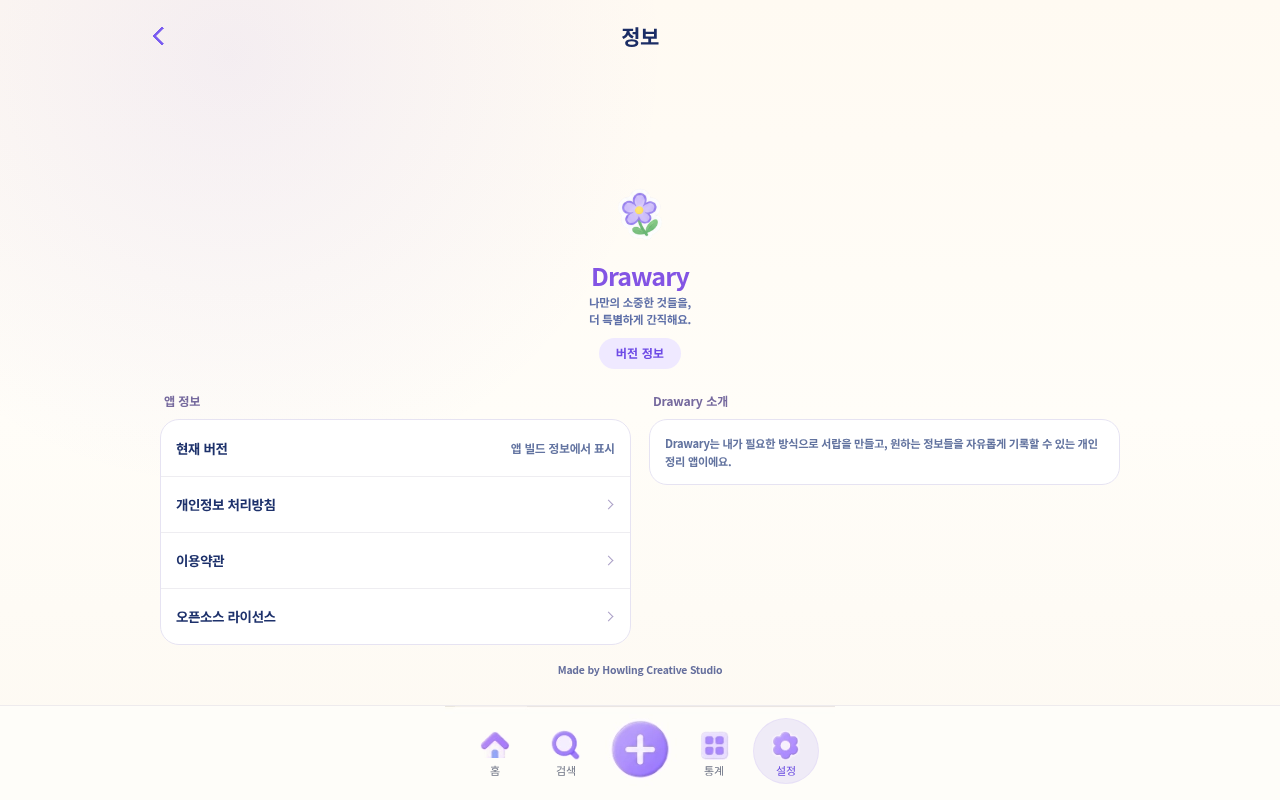
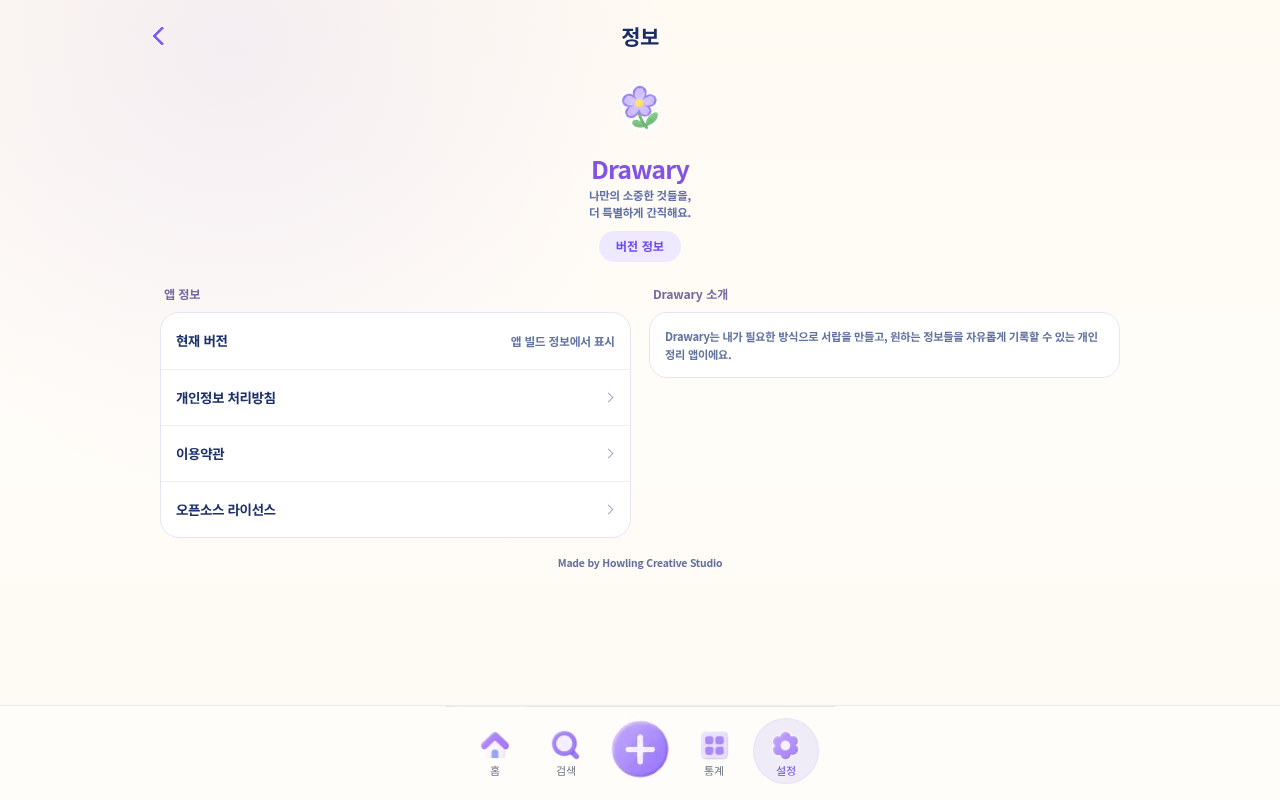
Wide info screen: content sits at the top instead of being centred
Claude-Session: https://claude.ai/code/session_01GjqJbS89D4DFQDLTKoRXvw

diff --git a/drawary-v2/src/wide/wideSettings.css b/drawary-v2/src/wide/wideSettings.css
@@ -95,8 +95,7 @@
 .wide-sd .lang54-card .lang54-art { flex: 1 1 auto; height: auto; min-height: 150px; }
 /* help and info: short pages are centred vertically */
 .wide-sd .help55-content { margin-top: auto; margin-bottom: auto; }
-.wide-sd .info58-brand { margin-top: auto; }
-.wide-sd .info58-credit { margin-bottom: auto; }
+.wide-sd .info58-brand { padding-top: 6px; }
 
 /* ---- one header and one back arrow for every settings screen (same as the app's shared ScreenHeader: 72 px bar, centred 21 px title, 44 px chevron button) ---- */
 .wide-sd .sec40-header,
